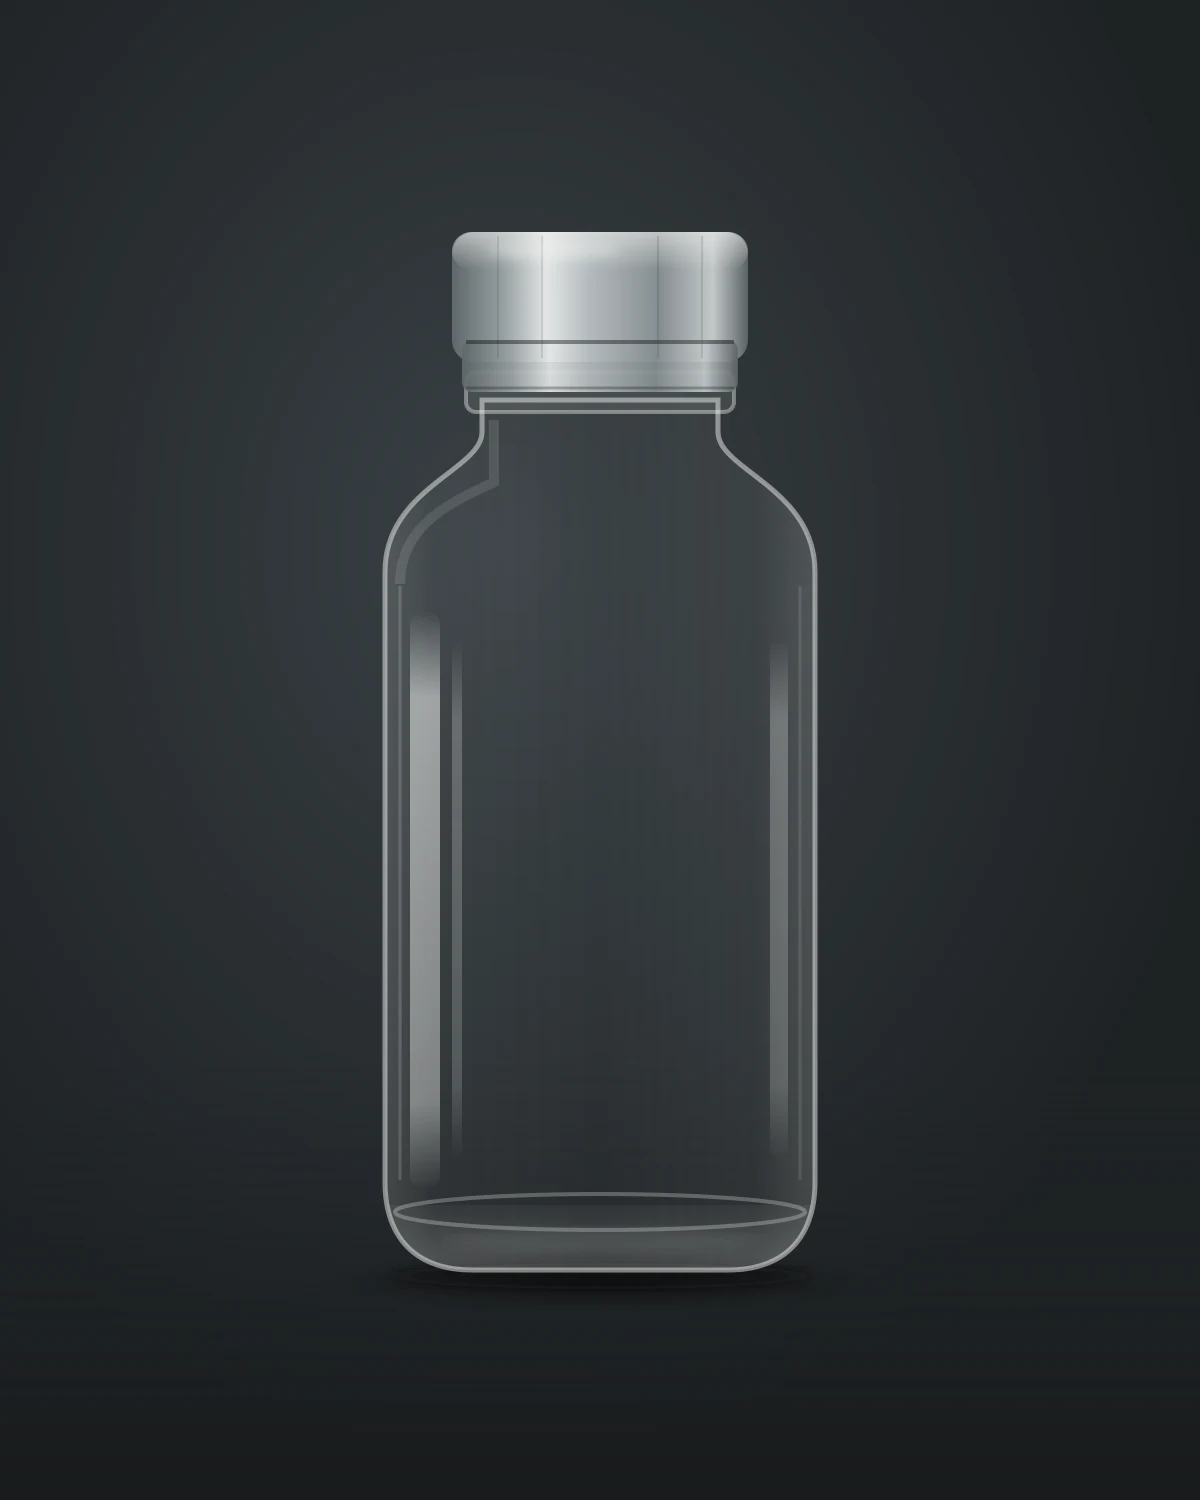
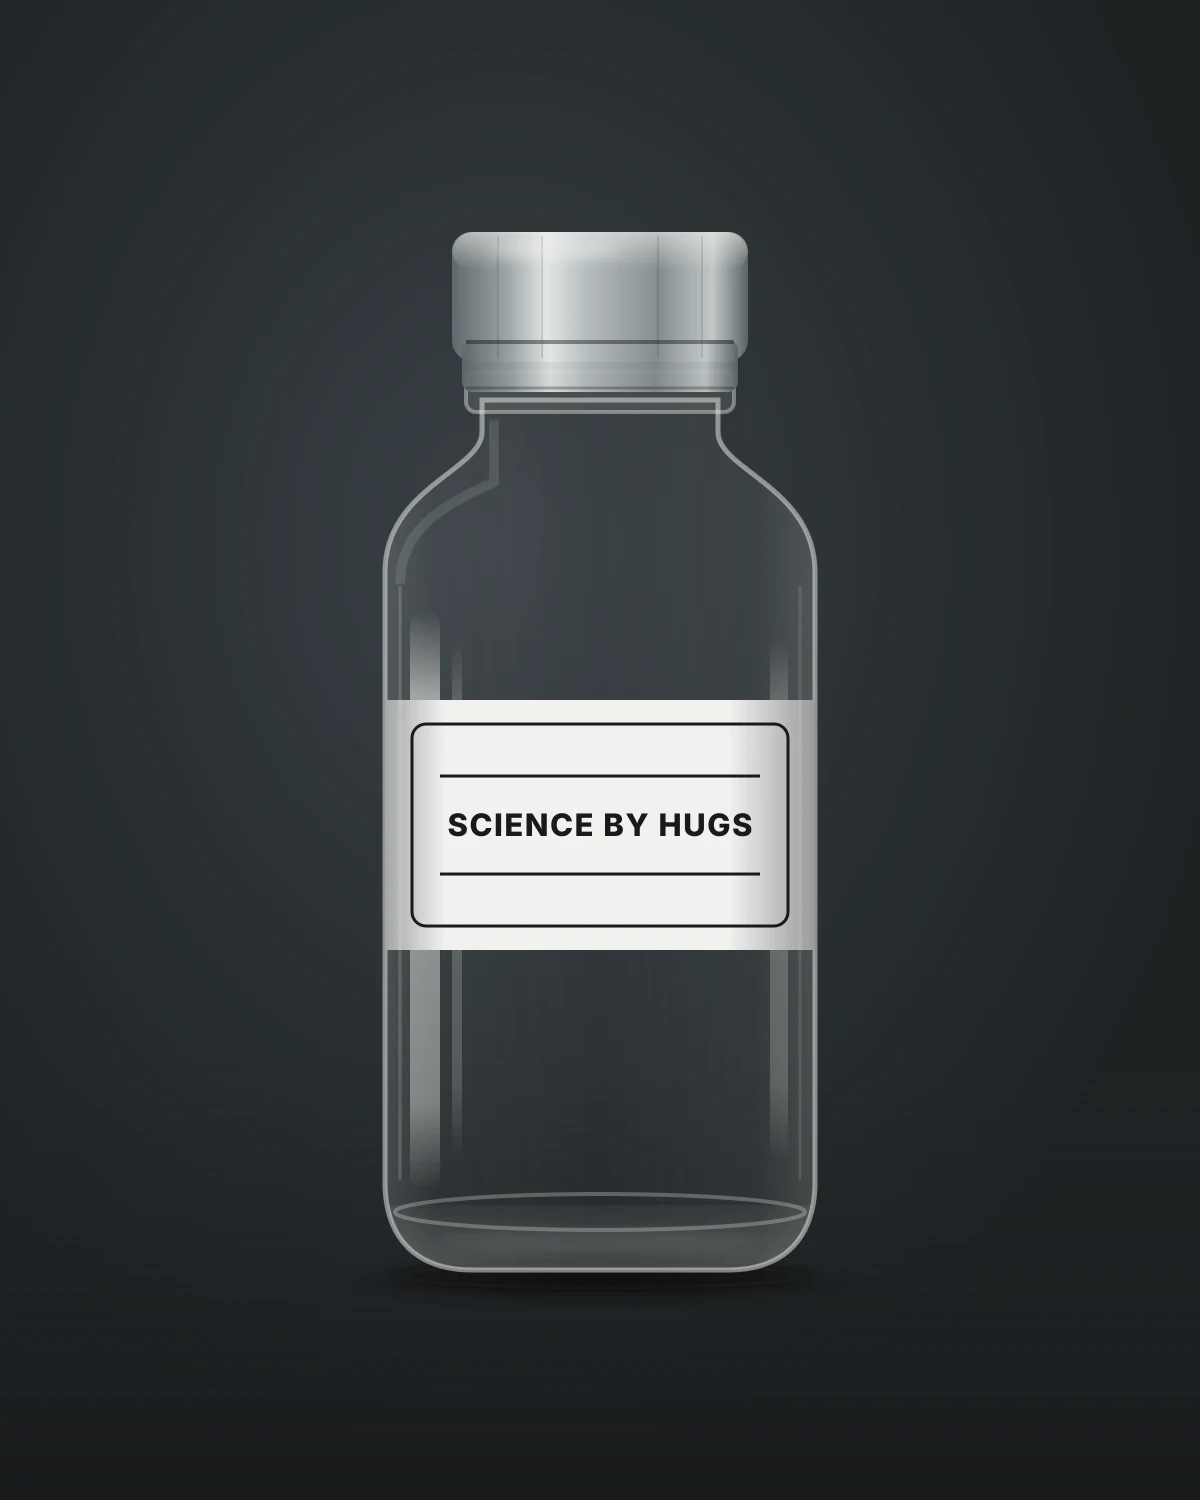
Add a Science By Hugs label to the default product photo
Brand-only label in the style Anthony supplied (bordered card, rules
above and below, black type on porcelain). No product name, strength or
claims, so the same image stays accurate for every product. Cache key
bumped to v=2 so the new image replaces the old one.

Claude-Session: https://claude.ai/code/session_01W2eNWYpZPfKxkunCLfhAcs

Changed region(s): [[0.3083, 0.46, 0.6783, 0.644]]

diff --git a/src/main.ts b/src/main.ts
@@ -86,7 +86,7 @@ if (incomingReferralCode) {
 }
 
 const nexusLogoUrl = `${import.meta.env.BASE_URL}brand/nexus.svg`
-const defaultProductImageUrl = `${import.meta.env.BASE_URL}default-product-vial-slate.webp?v=1`
+const defaultProductImageUrl = `${import.meta.env.BASE_URL}default-product-vial-slate.webp?v=2`
 
 const escapeHtml = (value: unknown) =>
   String(value ?? '').replace(/[&<>"']/g, char => ({
